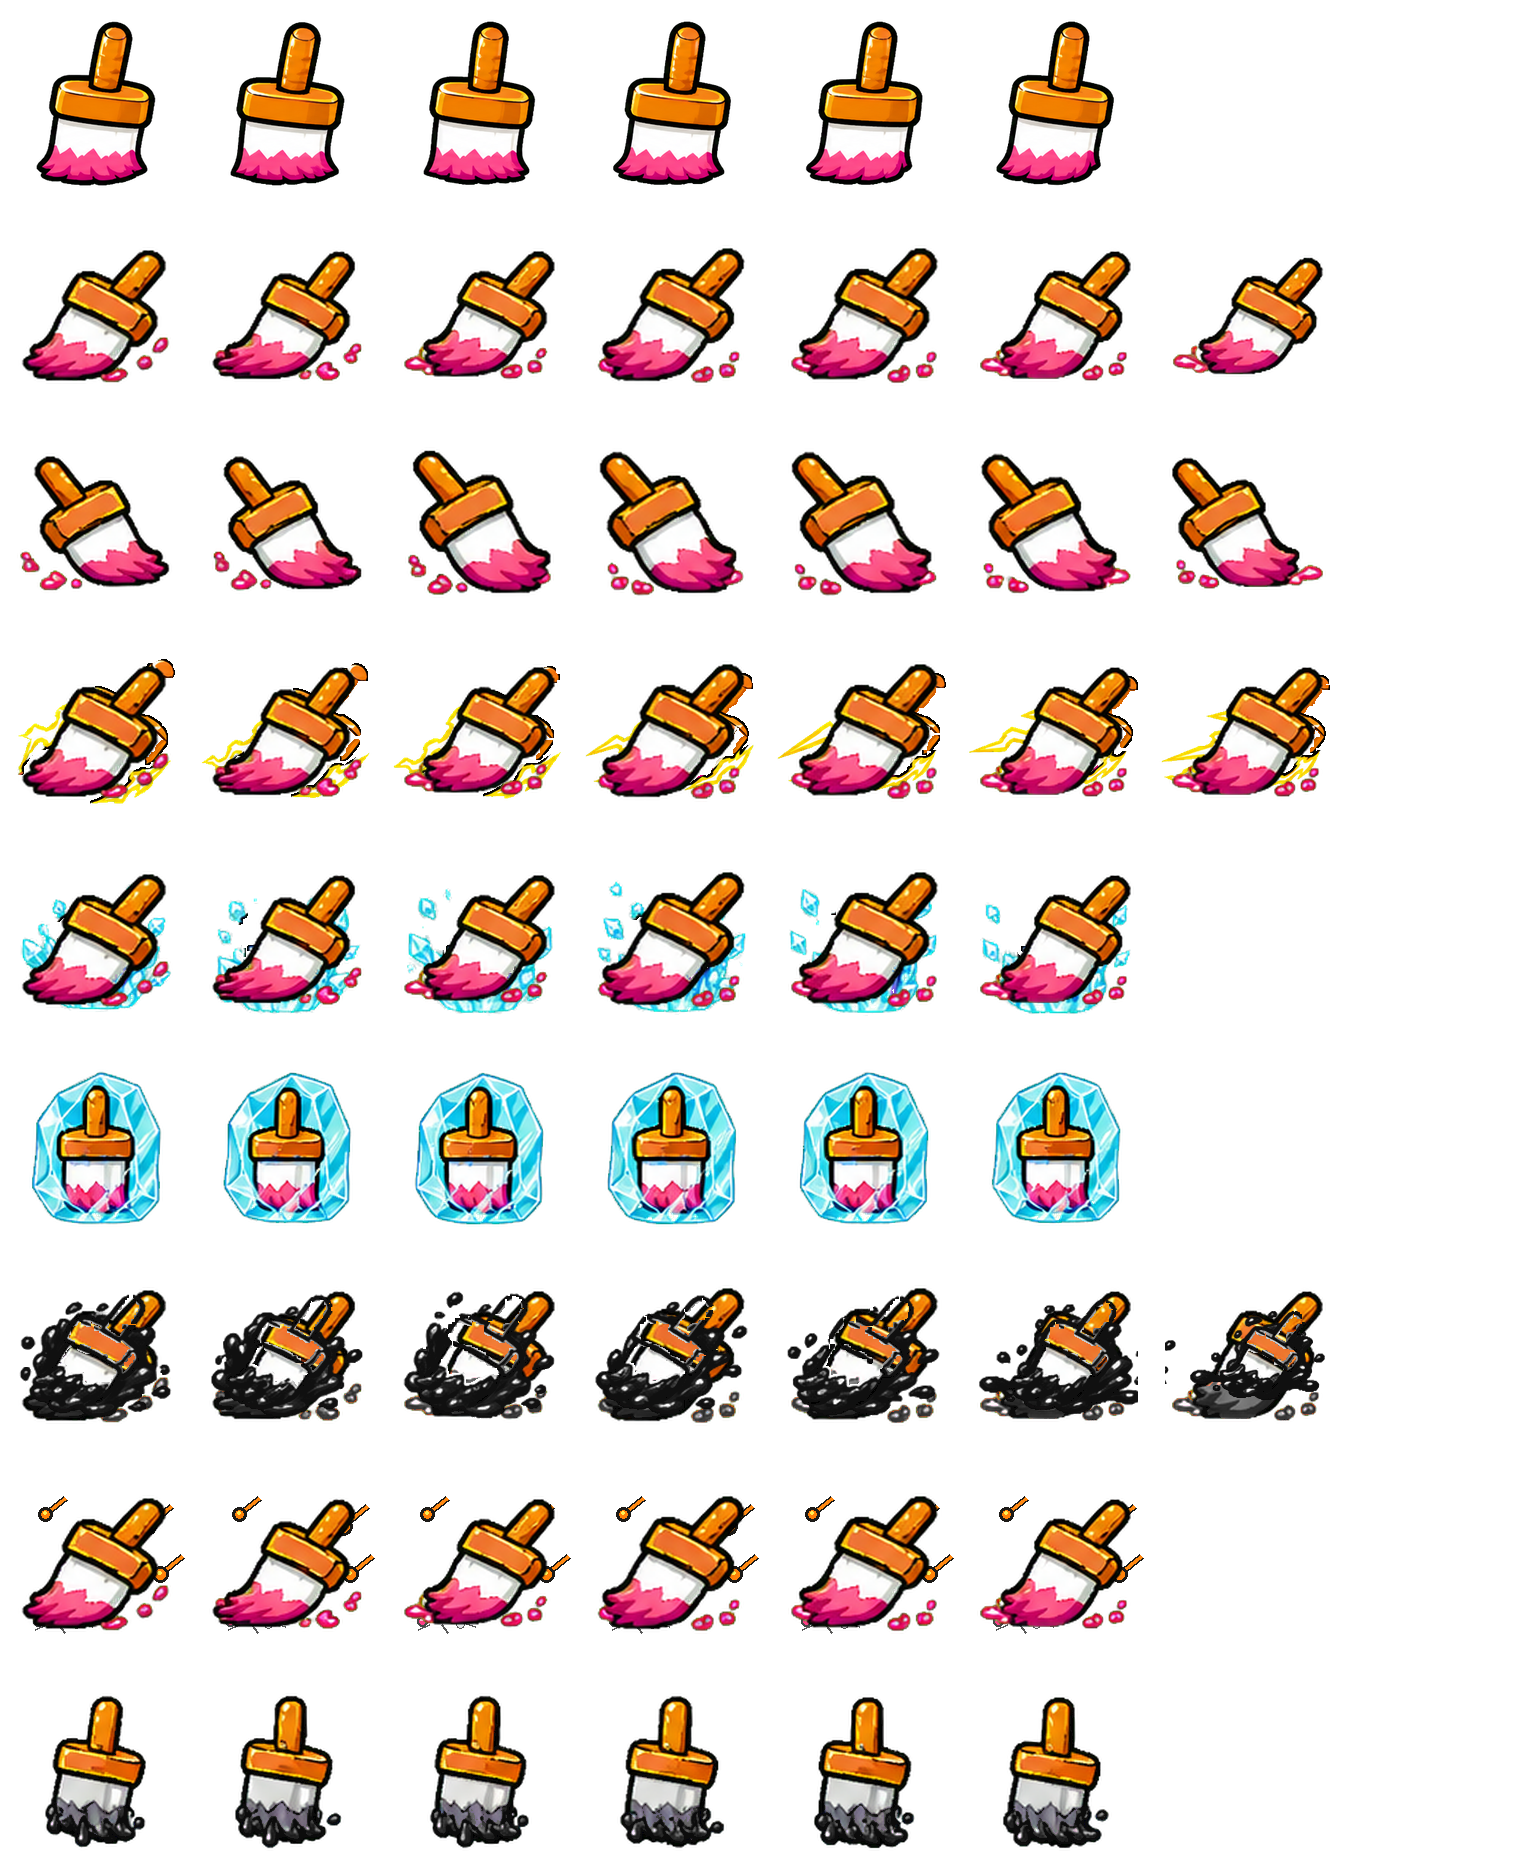
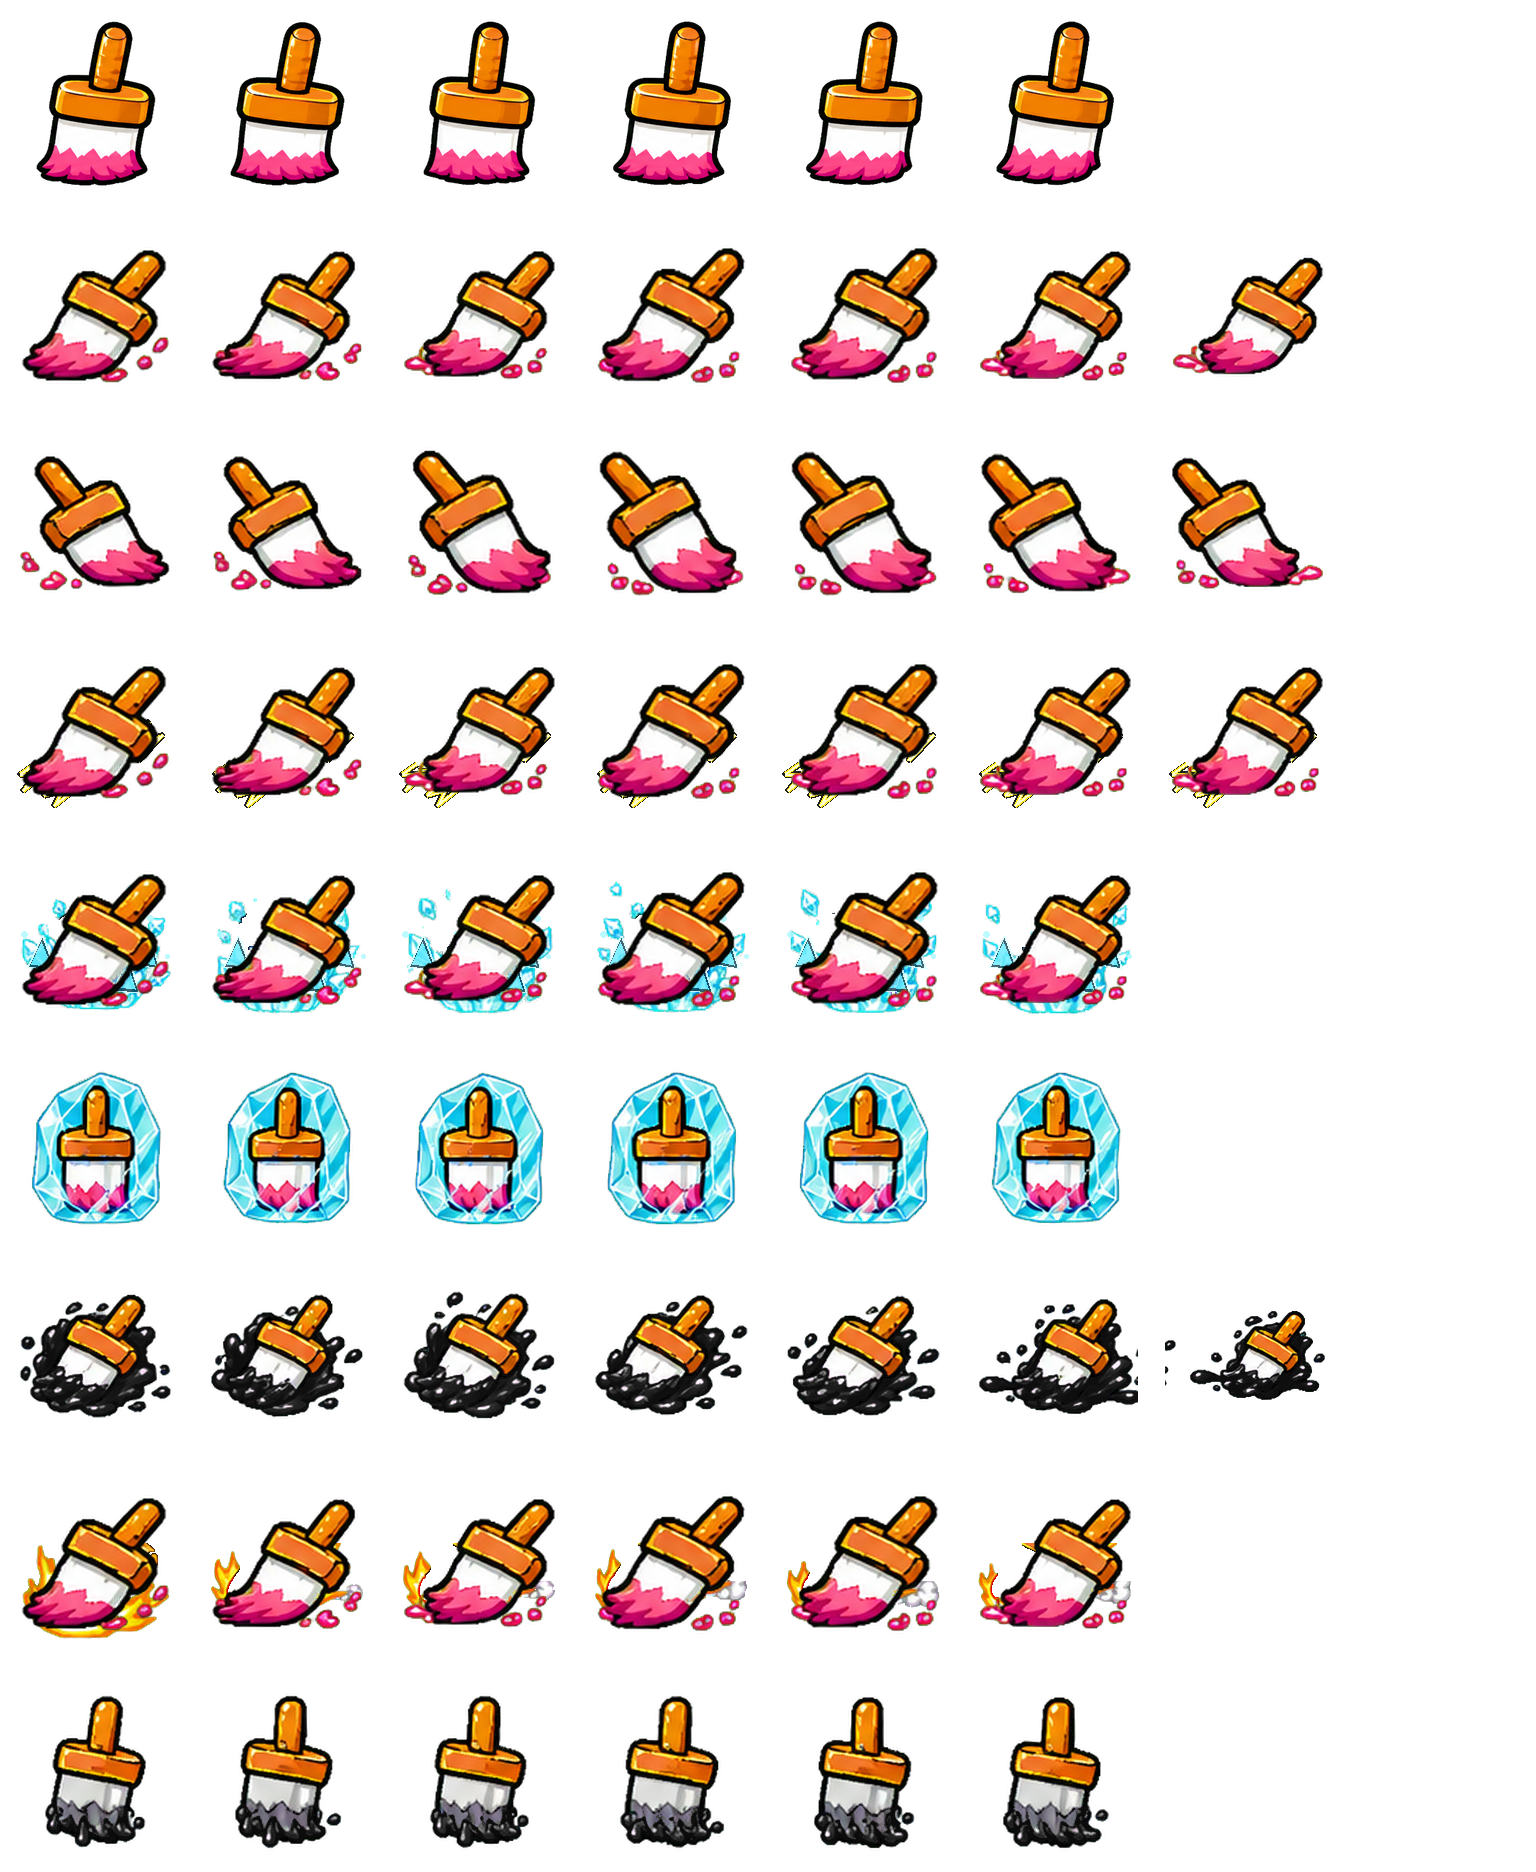
Clean up brush powerup spirit rows

diff --git a/public/client.js b/public/client.js
@@ -547,7 +547,7 @@ function getTintedSheet(slot) {
 
 function petState(speed, boost, frozen, noPaint, castType, inputActive) {
   if (frozen) return 'frozen-disabled';
-  if (noPaint) return speed > DRIFT_EPS ? 'inkjam-disabled-moving' : 'inkjam-disabled';
+  if (noPaint) return 'inkjam-disabled';
   if (castType === 'freeze') return 'freeze-cast';
   if (castType === 'inkjam') return 'inkjam-cast';
   if (castType === 'missile') return 'missile-cast';
@@ -564,7 +564,6 @@ function brushPose(state, face, dirAngle) {
     state === 'speed' ||
     state === 'freeze-cast' ||
     state === 'inkjam-cast' ||
-    state === 'inkjam-disabled-moving' ||
     state === 'missile-cast';
   if (!directional) return { rowState: state, flipX: 1, directional: false };
 

diff --git a/public/js/client-config.js b/public/js/client-config.js
@@ -28,7 +28,6 @@
         'inkjam-cast': { row: 6, frames: 7, rate: 90 },
         'missile-cast': { row: 7, frames: 6, rate: 75 },
         'inkjam-disabled': { row: 8, frames: 6, rate: 120 },
-        'inkjam-disabled-moving': { row: 6, frames: 7, rate: 110 },
       },
     },
     PET_DRAW_H: 78,